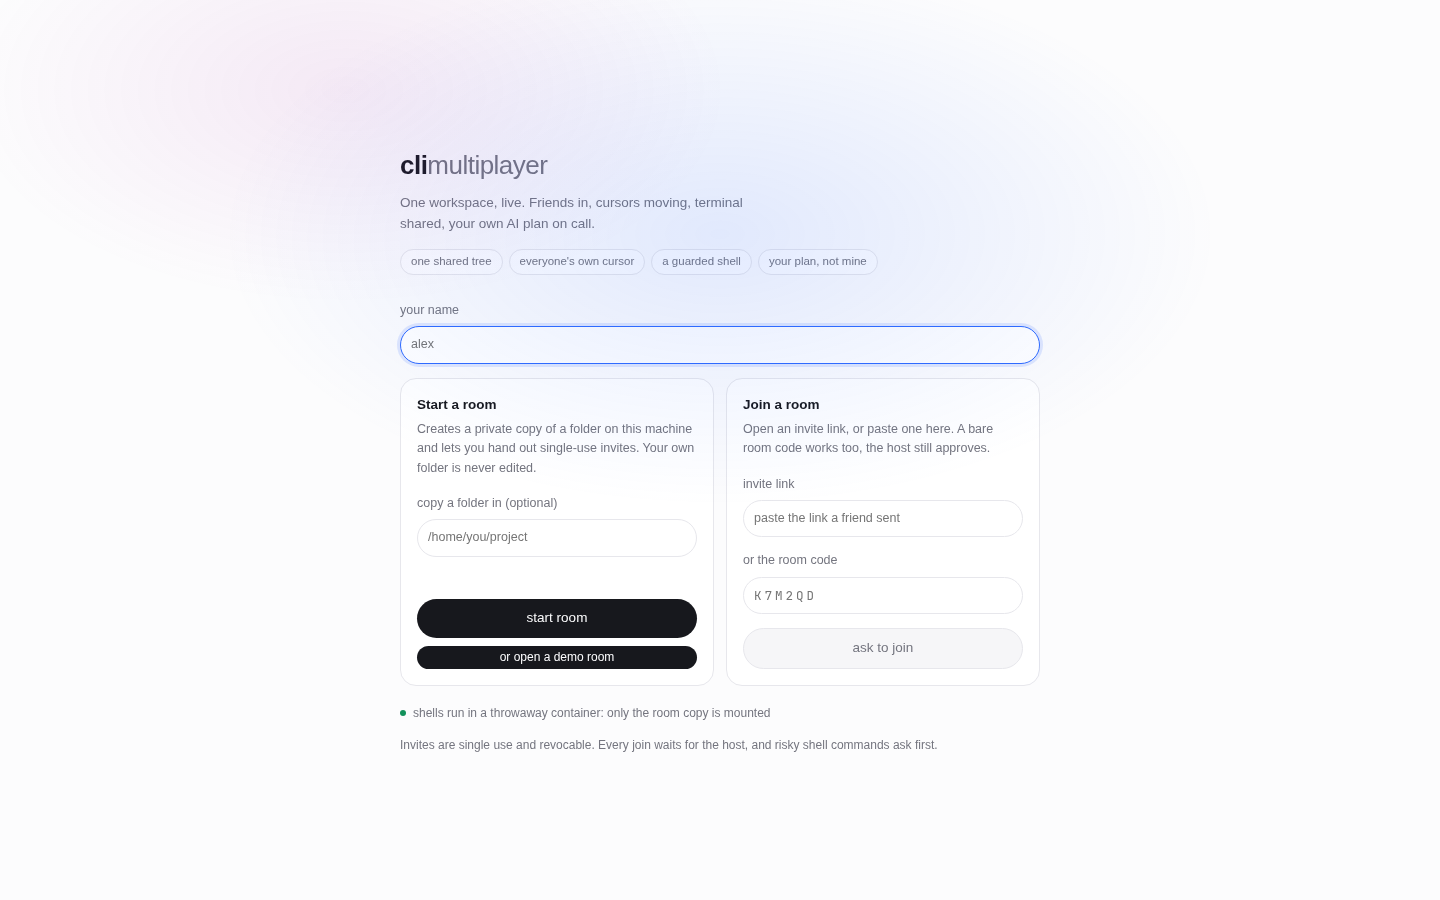
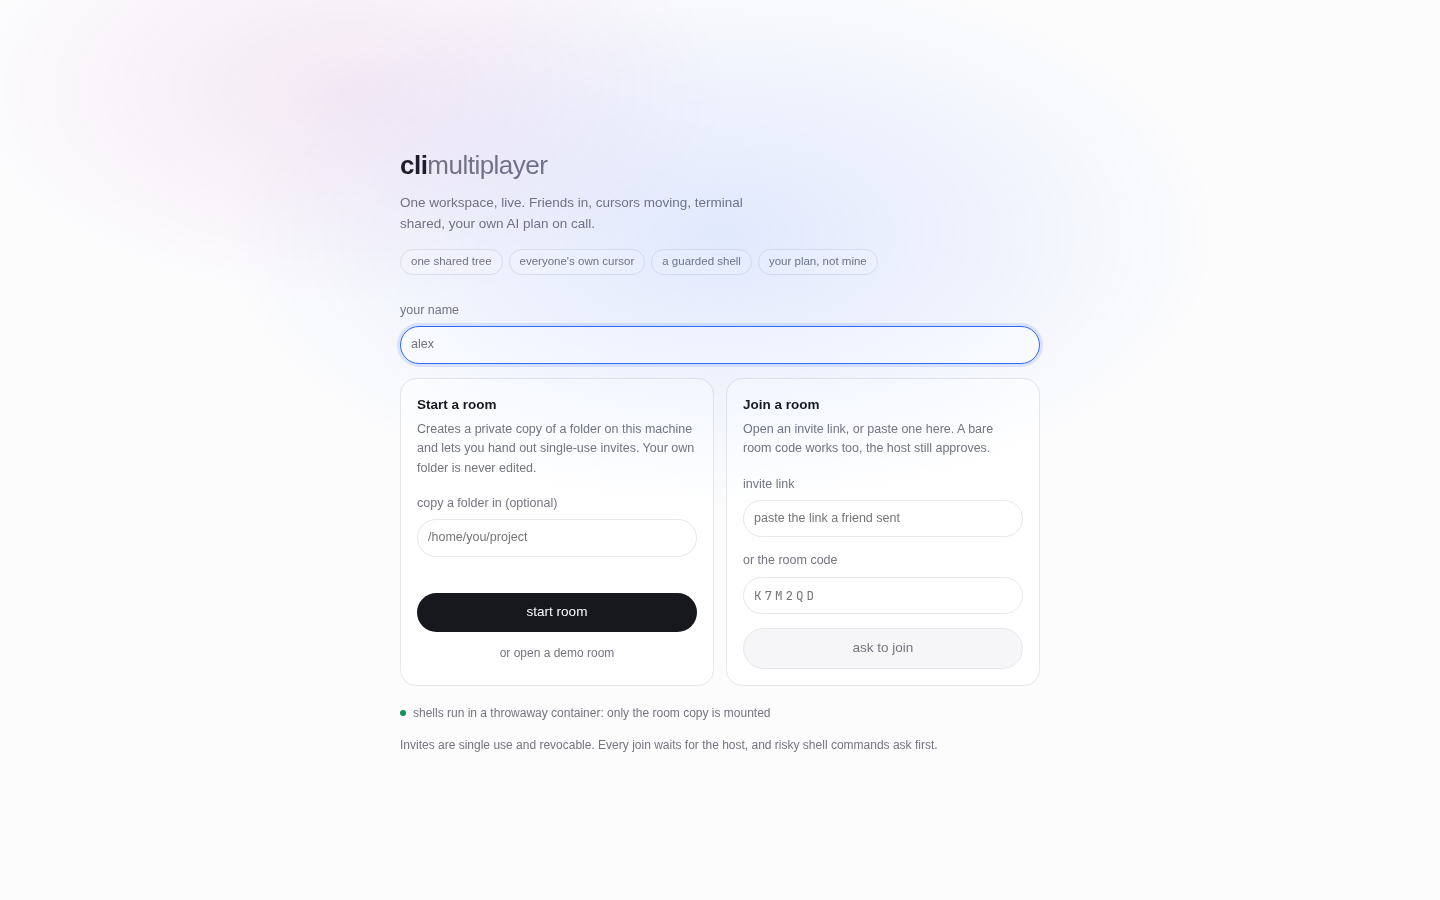
Make the repo page read like a product
The README now opens with what the room is and who it is for, a feature list
and a copyable start, with the detail sections below a contents nav. The demo
link on the landing page reads as the quiet second choice it should be.

Adds issue and pull request templates and a social preview image.

Changed region(s): [[0.2812, 0.6533, 0.5, 0.7467]]

diff --git a/web/src/styles.css b/web/src/styles.css
@@ -106,6 +106,8 @@ code, pre { font-family: var(--mono); font-size: 0.92em; }
 .card h2 { font-size: 13.5px; font-weight: 600; margin: 0 0 4px; }
 .card p { color: var(--dim); font-size: 12.5px; margin: 0 0 16px; }
 .card button { width: 100%; background: var(--text); color: var(--bg); border: none; padding: 9px; font-weight: 500; }
+.card button.demo { background: none; color: var(--dim); font-weight: 450; padding: 6px; margin-top: 6px; }
+.card button.demo:hover:not(:disabled) { color: var(--text); opacity: 1; }
 .card button:hover:not(:disabled) { opacity: 0.85; }
 .card button:disabled { background: var(--panel-2); color: var(--dim); border: 1px solid var(--line); opacity: 1; }
 .code-input { letter-spacing: 0.24em; text-transform: uppercase; font-family: var(--mono); }

diff --git a/README.md b/README.md
@@ -2,23 +2,52 @@
 
 ![ci](https://github.com/sjdsjadjajdjsa/climultiplayer/actions/workflows/ci.yml/badge.svg)
 
+**A live room where friends code together.** One shared copy of a project,
+everyone's own cursor and colour, a shared shell, and each person's own AI plan.
+
 ![three people in one room: two cursors in the same file, a shared shell, and a chat about the change](docs/room.png)
 
-Code on the same project with people anywhere, live. A room is a shared
-workspace: everyone sees the file tree, the same open file with their own cursor
-and colour, one shared terminal, and a chat assistant that proposes edits you
-apply with a click.
+- **Together, for real.** Cursors, selections and the open file are shared live.
+  Edits merge through a CRDT instead of fighting over one writer.
+- **A shell nobody has to trust.** Guests type into a shared shell that runs in a
+  throwaway container: read-only root, no capabilities, capped CPU, memory and
+  PIDs. The workspace is a copy, so your folder is never touched.
+- **Your plan, not the host's.** The assistant calls the subscription each person
+  already pays for. No API keys, no shared quota.
+- **Boring to set up.** One `npm start`, no account, nothing hosted for you.
+  Invites are single use, expiring and revocable, and every join is your call.
 
-The assistant runs on **each person's own AI subscription**. Nobody spends the
-host's quota and no API keys are needed.
+## Try it
 
-## Host it from your machine
+Needs Node 20+ and Docker.
+
+```bash
+git clone https://github.com/sjdsjadjajdjsa/climultiplayer
+cd climultiplayer
+npm install
+npm run room:image
+CLIMP_ROOM_NETWORK=host npm start
+```
+
+Open http://127.0.0.1:8787, pick a name, and click **or open a demo room** to look
+around on your own. `CLIMP_ROOM_NETWORK=host` is the sane default behind a VPN;
+drop it if docker's bridge works for you.
+
+## Contents
+
+[Try it](#try-it) · [Host it](#host-it-for-friends) · [Plans](#plans) ·
+[Terminals](#terminals) · [How it works](#how-it-works) ·
+[Security](#security-posture) · [Limits](#limits-of-the-base) ·
+[Configuration](#configuration) · [Tests](#tests)
+
+## Host it for friends
 
 One person hosts. Their machine runs the server and holds the workspace; friends
 join over the network. Nobody needs an account and nothing is hosted for you.
 
+One command past the steps above:
+
 ```bash
-npm install
 npm run host
 ```
 
@@ -39,8 +68,11 @@ repository so `git status` and `git log` work in the room, but a history over
 No friend around? "open a demo room" drops a small project in the room so you can
 try cursors, the shell and the assistant on your own.
 
+![the landing page: start a room, join with an invite, or open a demo](docs/landing.png)
+
 A friend who opens the link lands on the join screen with the room already known
-from the link (no code to type), gets a name prompt, and waits. You get a queue entry and click allow. The invite token sits after the
+from the link (no code to type), gets a name prompt, and waits. Their request
+arrives as a card you allow or deny. The invite token sits after the
 `#` in the link, so it never reaches the server in a request line and never
 leaks through a referrer. It is stored hashed, expires (1 hour, 24 hours or 7
 days), and can be revoked from the invite panel. A bare room code also works as
@@ -120,13 +152,15 @@ and **assistant**, the AI. Room chat is the default tab.
 
 ## Terminals
 
+![the terminal stage: a shared shell with a passing test run, and a member's own terminal being watched](docs/terminals.png)
+
 `terminal` summons a tilted stage of terminal cards. Two kinds:
 
 - **Shared** (dashed card): one command line per room, everyone types, each
   command shows who ran it. Risky commands here are held for the host.
 - **Per person**: `+ new` opens a full TTY card in the room container. You type,
   everyone else can click your card and watch live, read-only. This is where you
-  run `claude`, `codex`, `grok` or `copilot`, which the room image ships.
+  run `claude`, `codex`, `grok` or `copilot` from the full room image.
 
 Esc or `close` puts the stage away; the sessions keep running.
 

diff --git a/.github/pull_request_template.md b/.github/pull_request_template.md
@@ -1,0 +1,9 @@
+## what and why
+
+<!-- one or two sentences a stranger can follow -->
+
+## checks
+
+- [ ] `npm run typecheck`
+- [ ] `npm test`
+- [ ] `CLIMP_SHELL=docker node test/ui.mjs` if behaviour changed in the browser
